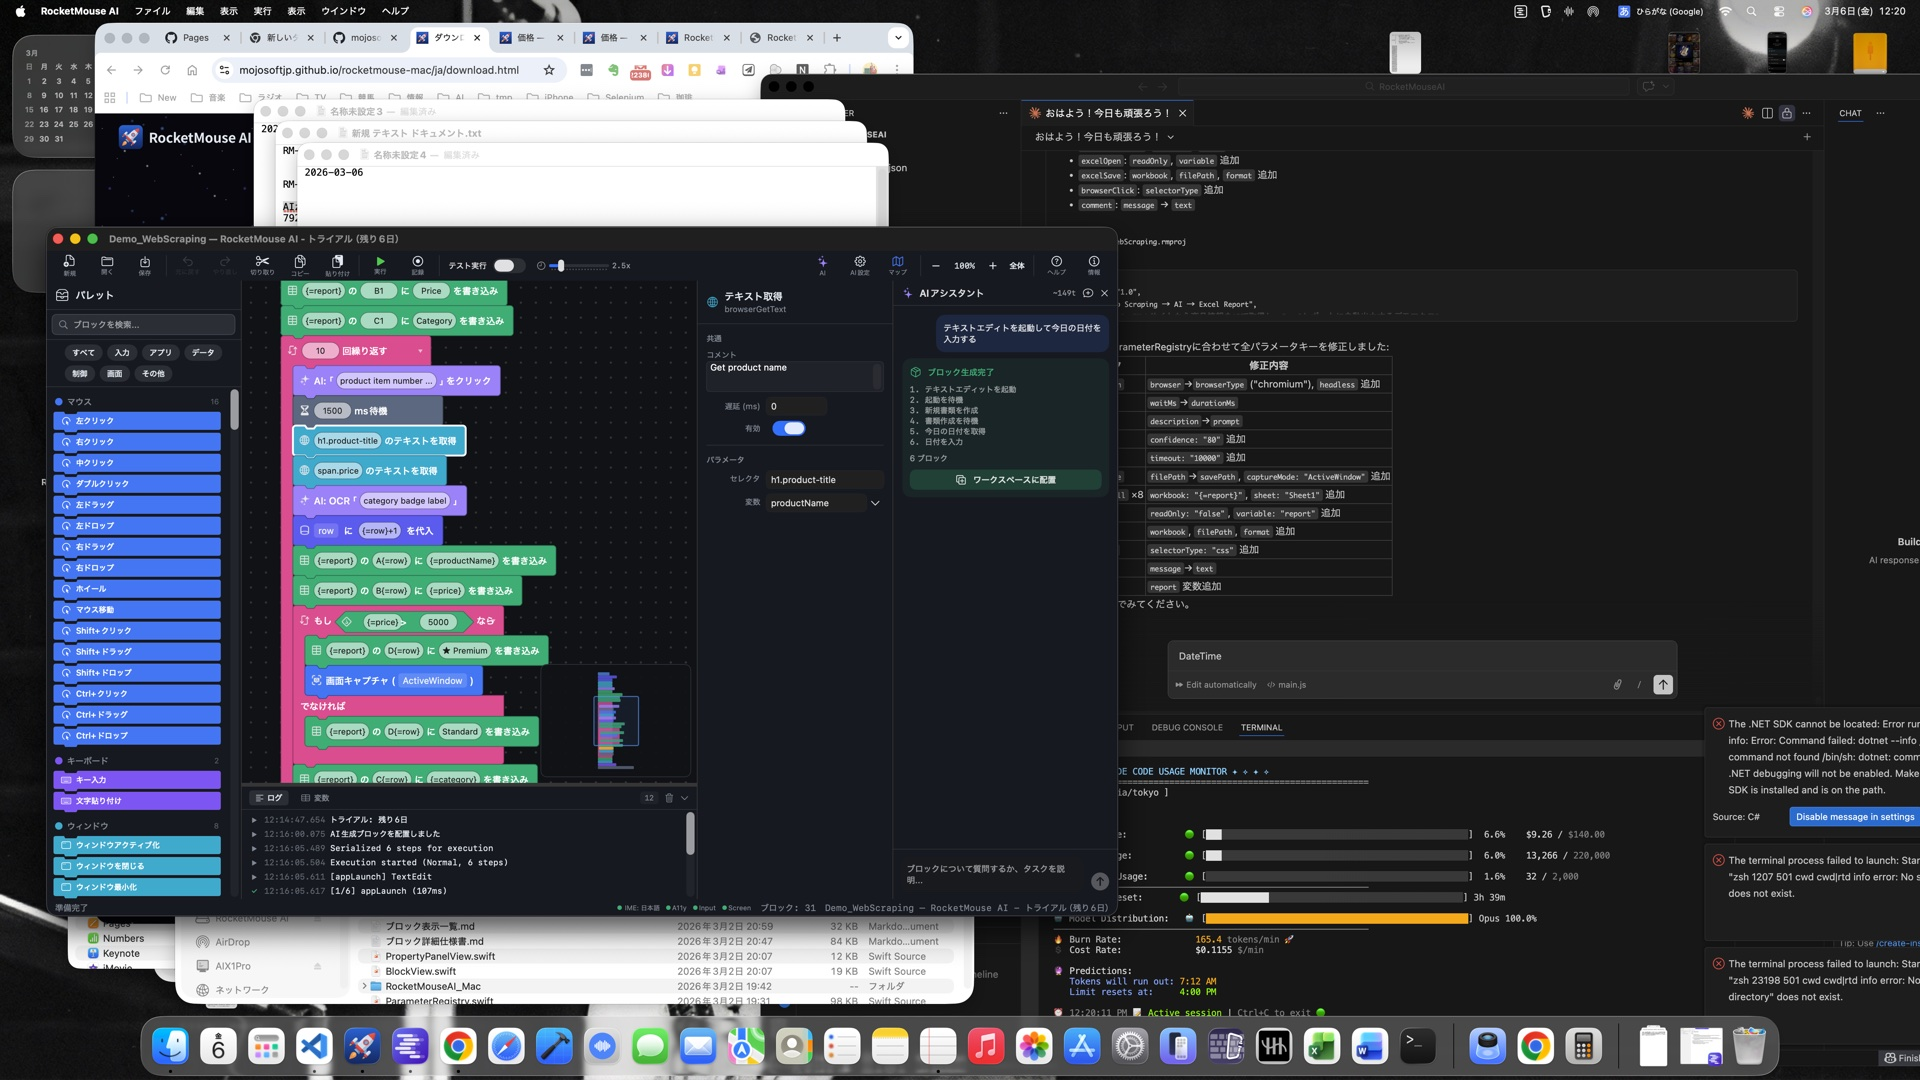
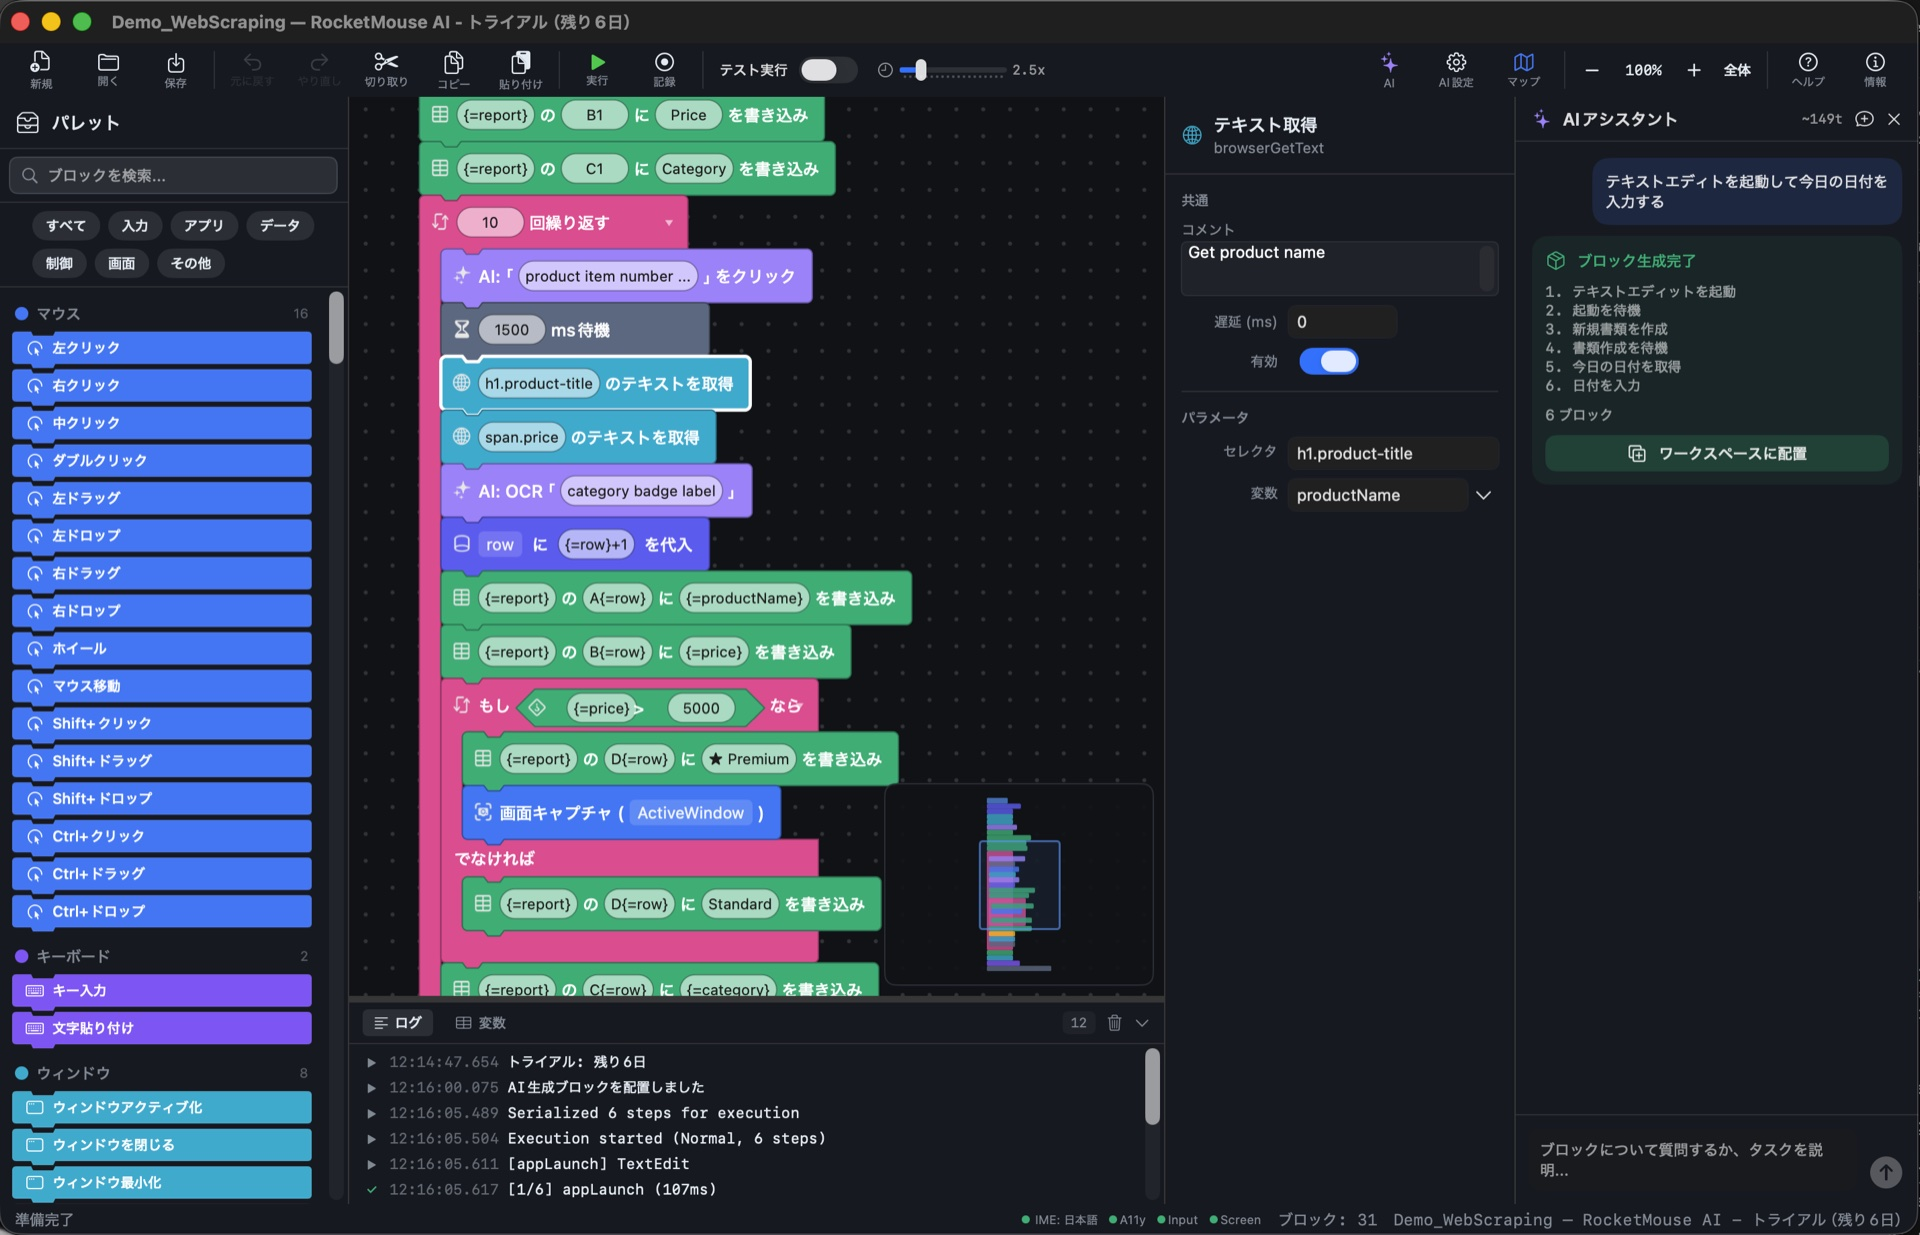
Fix hero screenshot: use window capture instead of full-screen

diff --git a/ja/index.html b/ja/index.html
@@ -134,7 +134,7 @@
     <div class="hero__window reveal-scale reveal-delay-3">
       <div class="window-frame">
         <div class="window-frame__body" style="padding: 0; overflow: hidden;">
-          <img src="../images/screenshot-hero.jpg" alt="RocketMouse AI — Webスクレイピングマクロ（AI、ブラウザ、Excel、フロー制御ブロック搭載）" width="1920" height="1080" style="display: block; width: 100%; height: auto; border-radius: 0 0 12px 12px;">
+          <img src="../images/screenshot-hero.jpg" alt="RocketMouse AI — Webスクレイピングマクロ（AI、ブラウザ、Excel、フロー制御ブロック搭載）" width="1920" height="1235" style="display: block; width: 100%; height: auto; border-radius: 0 0 12px 12px;">
         </div>
       </div>
     </div>

diff --git a/index.html b/index.html
@@ -132,7 +132,7 @@
     <div class="hero__window reveal-scale reveal-delay-3">
       <div class="window-frame">
         <div class="window-frame__body" style="padding: 0; overflow: hidden;">
-          <img src="images/screenshot-hero.jpg" alt="RocketMouse AI — Web Scraping macro with AI, Browser, Excel, and Flow Control blocks" width="1920" height="1080" style="display: block; width: 100%; height: auto; border-radius: 0 0 12px 12px;">
+          <img src="images/screenshot-hero.jpg" alt="RocketMouse AI — Web Scraping macro with AI, Browser, Excel, and Flow Control blocks" width="1920" height="1235" style="display: block; width: 100%; height: auto; border-radius: 0 0 12px 12px;">
         </div>
       </div>
     </div>
